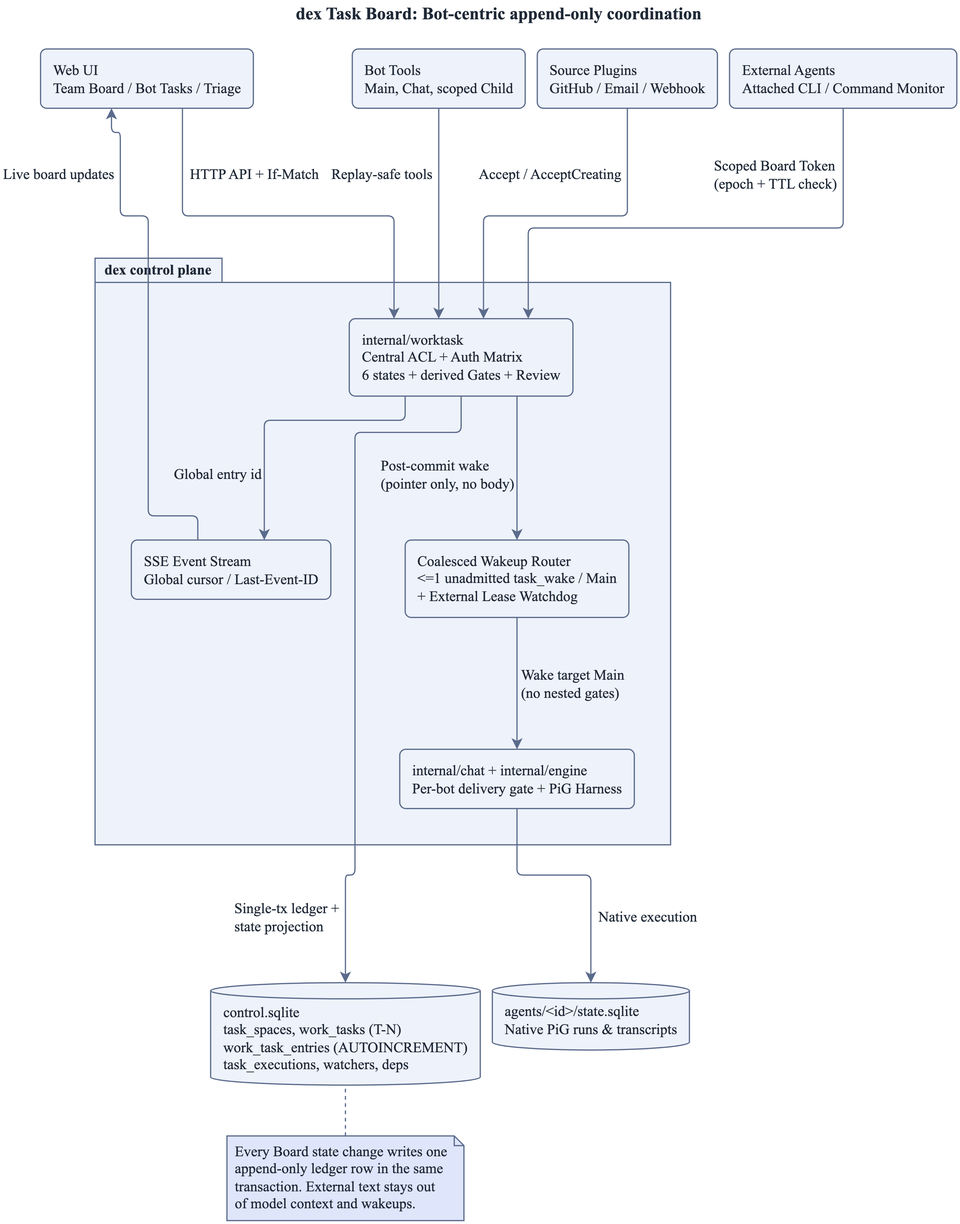
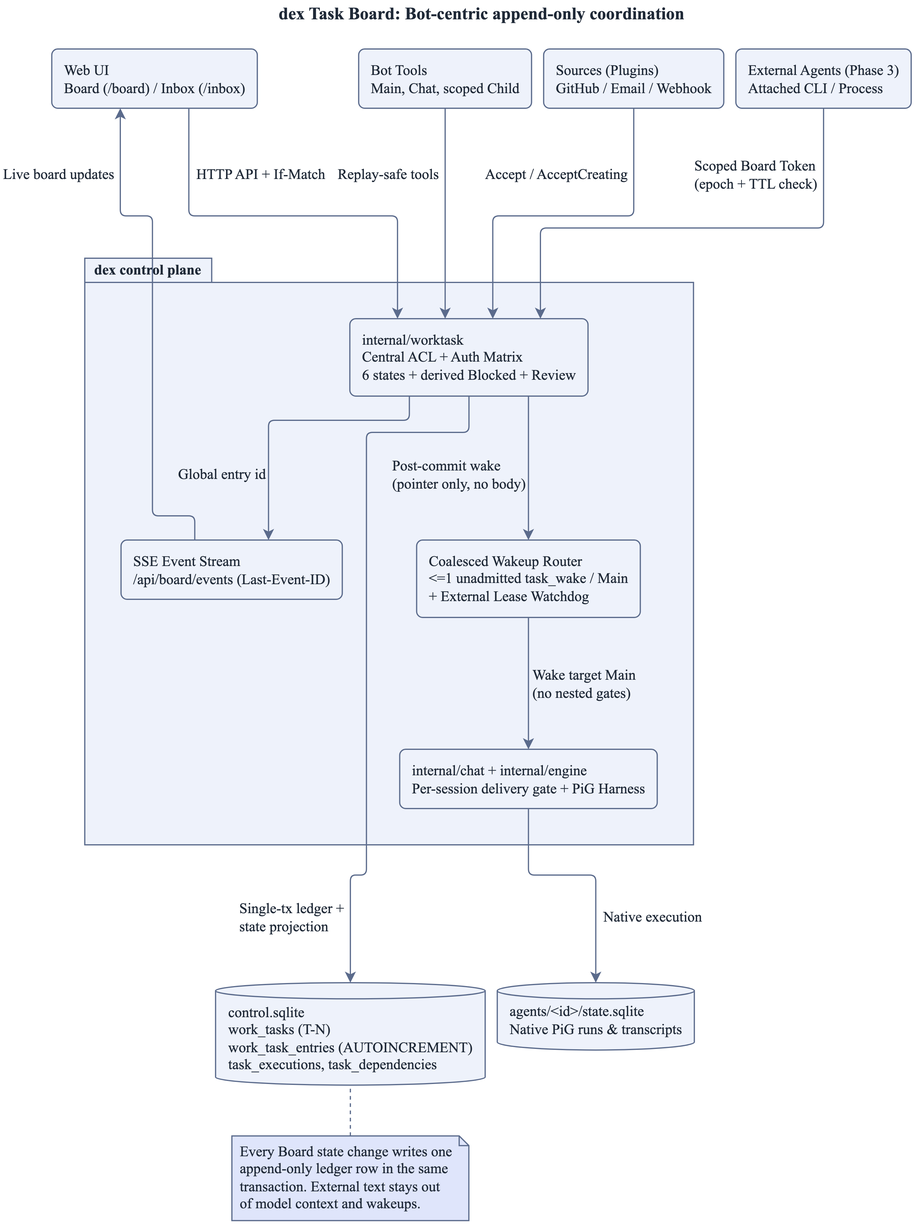
docs: Align Task Board spec with canonical glossary and simplified scope

diff --git a/docs/dev/task-board.md b/docs/dev/task-board.md
@@ -1,38 +1,44 @@
 # Task Board Architecture
 
-This document defines the target architecture for dex's Bot-centric, append-only Task Board (tracked in [#291](https://github.com/recally-io/dex/issues/291)). Current implemented Task Inbox behavior stays in [Tasks](tasks.md) until each phase ships.
+This document defines the target architecture for dex's Bot-centric, append-only Task Board (tracked in [#291](https://github.com/vaayne/dex/issues/291)). Current implemented Board and Task behavior stays in [Tasks](tasks.md) until each phase ships. All user-facing terms follow the [Glossary](glossary.md).
 
 ![Task Board architecture and boundaries](../assets/task-board.png)
 
 Source: [task-board.puml](../assets/src/task-board.puml).
 
-## Mental model and core invariants
+## Mental model and terminology boundary
 
-dex models a team for one owner:
+dex models a team for one Owner without adding new top-level user objects beyond `Bot`, `Session`, `Task`, and `Automation`, or new views beyond `Board` (`/board`) and `Inbox` (`/inbox`):
 
-- **dex** is the team.
-- **Each Bot** is a team member. Its **Main session** is its working desk and juggles multiple Tasks at once.
-- **The Task Board** is the team's shared durable working memory and progress ledger.
-- **Executions** are the concrete runs a Bot uses to do work on a Task: internal dex sessions or external coding agents (such as Claude Code, Codex, or OpenCode) on local or remote machines.
+- **Owner** is the single human operator.
+- **Bot** is a team member. Its **Main** session is its working desk and juggles multiple Tasks at once.
+- **Assignee** is the dex Bot currently responsible for a Task (`assignee_bot_id NOT NULL`). Reassigning a Task changes its Assignee without turning `Owner` into a Bot role.
+- **Board** (`/board`) is the global view of all Tasks across Bots. Each Task has a stable key (`T-42`), a status, an Assignee, linked Sessions, external links, and a **Timeline**.
+- **Inbox** (`/inbox`) remains the single Owner attention stream: active `ask_user` questions, unhandled failed or changed Automation results, Automations missing a model, held external events, and (in Phase 2) Tasks awaiting Owner review. There is no separate `Triage` view.
 
-Five invariants govern the design:
+Engineering terms in this document—such as **ledger**, **tombstone**, **gate**, **execution**, and **task wake**—describe internal storage and control-plane mechanics only. The Web UI surfaces them in plain canonical terms (`Timeline`, `Blocked`, `Sessions`, and `External runs`).
 
-1. **Bot accountability.** Every Task has one owning dex Bot (`assignee_bot_id NOT NULL`). External agents run as Executions under a dex Bot; they never own a Task independently.
+## Core invariants
+
+Four invariants govern the design:
+
+1. **Bot accountability.** Every Task has one responsible dex Bot (`assignee_bot_id NOT NULL`). External coding agents run underneath a dex Bot; they never own a Task independently.
 2. **Task ownership is not Session ownership.** Reassigning a Task from Bot A to Bot B does not transfer `conversations.parent_id` control over Bot A's existing child sessions. Bot B's Main creates its own child sessions.
-3. **Append-only ledger as source of truth.** `work_task_entries` uses `INTEGER PRIMARY KEY AUTOINCREMENT` and forbids physical deletion (`tombstone` only, no `ON DELETE CASCADE`). Every Board mutation writes one ledger entry in the same SQLite write transaction so `work_tasks` is a consistent projection of the ledger and SSE cursors never skip changes.
-4. **Storage and lock boundaries.** All Board state lives in `control.sqlite` (`STRICT` tables). Native execution state remains in `agents/<id>/state.sqlite`. No call path holds two bot delivery gates: cross-bot assignment, review, and gate unblock commit durable DB state first and invoke `wake()` after commit; cross-bot stops reuse `abort_pending`.
-5. **Lightweight grouping.** Board grouping uses `Space` (for example `general`, `dev/dex`, `ops`) to stay distinct from messaging Channels (Telegram, Feishu, WeChat). Spaces provide organization and filtering only; they do not store routing defaults (`default_bot_id`, `environment`, or `cwd`) that duplicate bot or plugin settings.
+3. **Append-only ledger as source of truth.** `work_task_entries` uses `INTEGER PRIMARY KEY AUTOINCREMENT` and forbids physical deletion (`tombstone` only, no `ON DELETE CASCADE`). Every Board state mutation writes one ledger row in the same SQLite write transaction so `work_tasks` stays a consistent projection of the ledger and SSE cursors never skip changes.
+4. **Storage and lock boundaries.** All Board state lives in `control.sqlite` (`STRICT` tables). Native execution state remains in `agents/<id>/state.sqlite`. No call path holds two session delivery gates: cross-bot assignment, review, and unblock commit durable DB state first and invoke `wake()` after commit; cross-bot stops reuse `abort_pending`.
 
 ## Domain model
 
-| Table / entity      | Key fields and semantics                                                                                                                                                                                                                                                                                                                     |
-| ------------------- | -------------------------------------------------------------------------------------------------------------------------------------------------------------------------------------------------------------------------------------------------------------------------------------------------------------------------------------------- |
-| `task_spaces`       | `id`, unique `slug` (default `general`), `name`, `description`, `archived_at`. Display and filter grouping only.                                                                                                                                                                                                                             |
-| `work_tasks`        | `id`, `number` (`AUTOINCREMENT` -> global stable key `T-42`), `space_id` (defaults to `general` for plugin `AcceptCreating` compatibility), `title`, `status`, `parent_task_id`, `authorized_by_root_id`, `assignee_bot_id` (`NOT NULL`), `creator_kind`/`id`, `reviewer_kind`/`id`, `review_seq`, `next_entry_seq`, `revision`, timestamps. |
-| `work_task_entries` | `id` (`AUTOINCREMENT` global SSE cursor), `task_id`, `seq` (`UNIQUE(task_id, seq)`), `kind`, optional `tag`, `actor_kind`, `actor_bot_id`, `actor_execution_id`, `trust`, `event_id`, `meta_json`, `content`, `created_at`.                                                                                                                  |
-| `task_executions`   | `id`, `task_id`, `bot_id`, `kind` (`dex_session` \| `external_agent`), `conversation_id`, `turn_request_id`, `harness`, `machine_id`, `host_meta_json`, `workspace_path`, `git_branch`, `external_session_id`, `state`, `lease_epoch`, `lease_expires_at`, `last_heartbeat_at`, `started_at`, `ended_at`.                                    |
-| `task_watchers`     | `(task_id, bot_id)`. Grants read-only access and badge visibility; watching never grants write permission.                                                                                                                                                                                                                                   |
-| `task_dependencies` | `(task_id, depends_on_task_id)` (Phase 2). Allowed only between sibling Tasks that share the same `parent_task_id`. Cycle check and insert run in the same write transaction.                                                                                                                                                                |
+| Table / entity      | Key fields and semantics                                                                                                                                                                                                                                                                                  |
+| ------------------- | --------------------------------------------------------------------------------------------------------------------------------------------------------------------------------------------------------------------------------------------------------------------------------------------------------- |
+| `work_tasks`        | `id`, `number` (`AUTOINCREMENT` -> global stable key `T-42`), `title`, `status`, `parent_task_id`, `authorized_by_root_id`, `assignee_bot_id` (`NOT NULL`, upgraded from `agent_id`), `creator_kind`/`id`, `reviewer_kind`/`id`, `review_seq`, `next_entry_seq`, `revision`, timestamps.                  |
+| `work_task_entries` | `id` (`AUTOINCREMENT` global SSE cursor), `task_id`, `seq` (`UNIQUE(task_id, seq)`), `kind`, optional `tag`, `actor_kind`, `actor_bot_id`, `actor_execution_id`, `trust`, `event_id`, `meta_json`, `content`, `created_at`.                                                                               |
+| `task_executions`   | `id`, `task_id`, `bot_id`, `kind` (`dex_session` \| `external_agent`), `conversation_id`, `turn_request_id`, `is_primary`, `harness`, `machine_id`, `host_meta_json`, `workspace_path`, `git_branch`, `external_session_id`, `state`, `lease_epoch`, `lease_expires_at`, `last_heartbeat_at`, timestamps. |
+| `task_dependencies` | `(task_id, depends_on_task_id)` (Phase 2). Allowed only between sibling Tasks that share the same `parent_task_id`. Cycle check and insert run in the same write transaction.                                                                                                                             |
+
+Upgrading from the current schema maps `work_tasks.agent_id` to `assignee_bot_id` and migrates existing `work_task_sessions` rows (including `agent_id`, `is_primary`, and `linked_at`) into `task_executions` (`kind = 'dex_session'`) without losing primary links or history.
+
+Board does not introduce `Spaces` or `Watchers` as first-class entities. Filtering uses Assignee Bot, Status, `In Review`, `Blocked`, and linked Source; access control uses Assignee, Reviewer, and bound Sessions/Executions.
 
 ### Entry kinds and projections
 
@@ -53,39 +59,39 @@ Generic `task_post` writes only `note` and `artifact`. Dedicated server mutation
 
 Central `canRead(bot, task)` and `canWrite(bot, task, action)` checks replace scattered `t.agent_id = caller` query filters:
 
-- `canRead` allows the assignee, reviewer, watchers, and child executions bound to that Task.
-- `revision` applies only to cross-request HTTP and CLI writes via `If-Match: <revision>`. Internal agent tools execute inside immediate SQLite writer transactions and do not expose `revision` in tool arguments.
+- `canRead` allows the Assignee, the Reviewer (Phase 2), and child Sessions or external runs bound to that Task.
+- `revision` applies only to cross-request HTTP and CLI writes via `If-Match: <revision>`. Internal Bot tools execute inside immediate SQLite writer transactions and do not expose `revision` in tool arguments.
 
-## Lifecycle, derived Gates, and review
+## Lifecycle, derived Blocked state, and review
 
 `work_tasks.status` stores six states: `backlog`, `ready`, `in_progress`, `in_review`, `done`, and `cancelled`.
 
-`waiting` is not stored. Blocked state (`blocked` plus active Gate details) is derived on read from three read-only Gate sources:
+`waiting` is not stored. `Blocked` state (plus concrete blocker details) is derived on read from three internal Gate sources:
 
 1. Unfinished sibling `task_dependencies` (Phase 2).
 2. Unresolved external `work_task_waits`.
-3. Open `questions` (`ask_user`, keeping its existing transactional selection and delivery path in `internal/chat/work_tasks.go`, while showing queue position in the UI when multiple Tasks ask Main at once).
+3. Open `questions` (`ask_user`, keeping its existing transactional selection and delivery path in `internal/chat/work_tasks.go`, while showing queue position in Task detail when multiple Tasks ask Main at once).
 
 Key transition rules:
 
 - **Default reviewer.** When a Bot creates or delegates a Task to a different Bot (`creator != assignee`), `reviewer` defaults to the creating Bot. Self-created sub-tasks and Owner-created Tasks default to `reviewer = none` unless the caller explicitly sets `review: owner`.
-- **Review version binding.** Moving a Task to `in_review` records `review_seq` (the entry sequence submitted for review). `task_review(approve)` succeeds only when it matches the current `review_seq`; new submissions invalidate stale approvals. `task_review(request_changes)` appends feedback, moves the Task back to `in_progress`, and wakes the assignee Bot.
-- **No implicit completion.** Finishing an Execution never automatically moves a Task to `in_review` or `done`; the assignee Bot's Main session explicitly submits or closes it.
-- **Upstream edge cases.** Cancelling an upstream Task does not clear downstream Gates; it wakes the downstream assignee for manual resolution. Reopening a completed upstream Task (`done -> in_progress`) does not roll back started downstream work; it appends a `status` notice and wakes the downstream assignee.
+- **Review version binding.** Moving a Task to `in_review` records `review_seq` (the entry sequence submitted for review). `task_review(approve)` succeeds only when it matches the current `review_seq`; new submissions invalidate stale approvals. `task_review(request_changes)` appends feedback, moves the Task back to `in_progress`, and wakes the Assignee Bot.
+- **No implicit completion.** Finishing a Session or external run never automatically moves a Task to `in_review` or `done`; the Assignee Bot's Main session explicitly submits or closes it.
+- **Upstream edge cases.** Cancelling an upstream Task does not clear downstream blockers; it wakes the downstream Assignee for manual resolution. Reopening a completed upstream Task (`done -> in_progress`) does not roll back started downstream work; it appends a `status` notice and wakes the downstream Assignee.
 
 ## Authorization matrix
 
 Server-side authorization replaces the single `fromUser` check with a `role x run origin x root authorization` matrix:
 
-| Action                                              | Allowed actor                                | Allowed run origin                                      | Additional constraint                                                |
-| --------------------------------------------------- | -------------------------------------------- | ------------------------------------------------------- | -------------------------------------------------------------------- |
-| `task_post` (`note` / `artifact`)                   | Assignee, reviewer, watcher, bound execution | `user`, `task_wake`, child `task_result`                | External Board Token is scoped to one Task and one Execution         |
-| `backlog`/`ready` <-> `in_progress`, `-> in_review` | Assignee Bot or Owner                        | `user`, `task_wake`                                     | `in_review` sets `review_seq`; executions cannot trigger it directly |
-| `task_review` (`approve` / `request_changes`)       | Reviewer or Owner                            | Bot reviewer: `task_wake` or `user`; Owner: `user` only | `approve` must match current `review_seq`                            |
-| `task_split` (create child Task)                    | Parent assignee or Owner                     | `user`, `task_wake`                                     | Root Task must be user-created (`authorized_by_root_id` required)    |
-| Top-level `task_new`                                | Any Bot Main or Owner                        | `user` only (plus plugin `AcceptCreating` rules)        | Prevents unprompted automation from creating top-level Tasks         |
-| `cancel`, `reopen`, change reviewer, move space     | Owner only                                   | `user` only                                             | Bots, wakeups, external agents, and external events are rejected     |
-| External plugin events & external tokens            | Cannot change Task status or lifecycle       | —                                                       | Append `external` / `note` / `artifact` or resolve waits only        |
+| Action                                              | Allowed actor                          | Allowed run origin                                      | Additional constraint                                                |
+| --------------------------------------------------- | -------------------------------------- | ------------------------------------------------------- | -------------------------------------------------------------------- |
+| `task_post` (`note` / `artifact`)                   | Assignee, Reviewer, bound Session/run  | `user`, `task_wake`, child `task_result`                | External Board Token is scoped to one Task and one Execution         |
+| `backlog`/`ready` <-> `in_progress`, `-> in_review` | Assignee Bot or Owner                  | `user`, `task_wake`                                     | `in_review` sets `review_seq`; executions cannot trigger it directly |
+| `task_review` (`approve` / `request_changes`)       | Reviewer or Owner                      | Bot Reviewer: `task_wake` or `user`; Owner: `user` only | `approve` must match current `review_seq`                            |
+| `task_split` (create child Task)                    | Parent Assignee or Owner               | `user`, `task_wake`                                     | Root Task must be user-created (`authorized_by_root_id` required)    |
+| Top-level `task_new`                                | Any Bot Main or Owner                  | `user` only (plus Source `AcceptCreating` rules)        | Prevents unprompted automation from creating top-level Tasks         |
+| `cancel`, `reopen`, change reviewer                 | Owner only                             | `user` only                                             | Bots, wakeups, external agents, and external events are rejected     |
+| External Source events & external tokens            | Cannot change Task status or lifecycle | —                                                       | Append `external` / `note` / `artifact` or resolve waits only        |
 
 ## Trust boundary and context reads
 
@@ -93,7 +99,7 @@ Entries carry a three-level `trust` classification:
 
 - `owner`: written by the human Owner.
 - `agent`: written by a dex Bot or an external coding agent (`actor_kind = external_agent` distinguishes external agents).
-- `external`: ingested from external plugins (GitHub, Email, Webhook).
+- `external`: ingested from external Sources (GitHub, Email, Webhook).
 
 Protection rules:
 
@@ -104,49 +110,51 @@ Protection rules:
 
 ## Coalesced Main wakeups
 
-Main is a front desk (`docs/dev/sessions.md`): queuing one submission per Task event delays user messages behind a burst of task turns.
+Main is a front desk ([Sessions](sessions.md)): queuing one submission per Task event delays user messages behind a burst of task turns.
 
 - **One unadmitted wake per Main.** A partial unique index on `submissions` (`WHERE kind = 'task_wake' AND admitted_at IS NULL`) ensures each Bot's Main has at most one pending wake before native admission. Incoming wake events upsert that row with the new high-water cursor and a deduplicated list of `(taskKey, reason)` items.
 - **Pointer-only payload.** A `task_wake` payload contains only cursor pointers and event categories, never entry body text. Main reads details on demand via `task_my_workload` and `task_read`.
-- **Decision allowlist.** Only decision-requiring events trigger `task_wake`: `assigned`, `review_requested`, `changes_requested`, `gate_unblocked` (including resolved alert waits), `execution_failed`, `execution_stale`, and `question_answered`. Routine `note`, `artifact`, and heartbeat writes update UI badges and SSE only.
-- **No internal double-wakeup.** Internal child sessions already deliver a `task_result` to their parent on settlement. Internal `task_executions` project their state from existing conversation and submission records (`conversation_id` + `turn_request_id`) and do not emit a second auto-echo wakeup.
+- **Decision allowlist.** Only decision-requiring events trigger `task_wake`: `assigned`, `review_requested`, `changes_requested`, `gate_unblocked` (including resolved alert waits), `execution_failed`, `execution_stale`, and `question_answered`. Ordinary `note`, `artifact`, and heartbeat writes update UI badges and SSE only.
+- **No internal double-wakeup.** Internal child sessions already deliver a `task_result` to their parent on settlement. Internal `dex_session` executions project their state from existing conversation and submission records (`conversation_id` + `turn_request_id`) and do not emit a second auto-echo wakeup.
 
-## External agents and machines (Phase 3)
+## External agents and Runners (Phase 3)
 
-External coding agents (Claude Code, Codex, OpenCode, or custom scripts) integrate under an owning dex Bot through two tracks:
+External coding agents (Claude Code, Codex, OpenCode, or custom scripts) run under an Assignee Bot through two tracks:
 
 1. **Attached mode (CLI / MCP, first priority).**
-   - Each external Execution receives a scoped Board Token bound to `(task_id, execution_id, lease_epoch)`, stored only as a SHA-256 digest and injected via environment variable or `vault:NAME` (never passed in tool arguments that enter transcripts).
+   - Each external run receives a scoped Board Token bound to `(task_id, execution_id, lease_epoch)`, stored only as a SHA-256 digest and injected via environment variable or `vault:NAME` (never passed in tool arguments that enter transcripts).
    - The token allows reading non-`external` entries of that Task, posting `note`/`artifact`, sending heartbeats, and marking its own execution `completed` or `failed`. It cannot read other Tasks or change Task status.
    - Every write validates current `lease_epoch`, execution state, and server time in the same SQLite write condition, returning `409 claim_lost` immediately when expired or superseded.
    - **Startup grace and recovery.** On dex startup after downtime, active external leases extend to `max(lease_expires_at, start + TTL)` before the watchdog runs to prevent false stale storms. Transiently disconnected workers recover via `dex board attach --resume <execution_id>`, which bumps `lease_epoch` and returns `stale` to `running`.
    - **Workspace isolation.** Lease epochs block stale Board writes but cannot stop a detached OS process from editing a shared checkout. Parallel writers must use separate worktrees or directories. UI labels distinguish registered Runner identities from self-reported `hostname`/`cwd`.
-2. **Managed Push via Command Monitors.**
-   - Rather than adding harness-specific verbs to `dex-agent` runner RPC, Managed Push reuses `monitor_set_command` (`claude -p ... --resume <id>` or equivalent) with a durable `dispatch_id` and strict `(machine_enrollment, harness, workspace, external_session_id)` binding checks before resuming.
-   - Before enabling Managed Push, verify that long-running background commands on a remote Runner do not hold the Runner's single-operation socket and block concurrent tool calls from other bots on the same machine.
+2. **Managed Push via Processes.**
+   - Rather than adding harness-specific verbs to `dex-agent` Runner RPC, Managed Push reuses session **Processes** (`process_start` in `internal/background`, running `claude -p ... --resume <id>` or equivalent) with a durable `dispatch_id` and strict `(machine_enrollment, harness, workspace, external_session_id)` binding checks before resuming.
+   - Before enabling Managed Push, verify that long-running background Processes on a remote Runner do not hold the Runner's single-operation socket and block concurrent tool calls from other Bots on the same machine.
 
 ## Web UI information architecture
 
-The Web UI follows `web/AGENTS.md` (stock shadcn components and `web/src/styles.css` tokens) and replaces 3-second polling with global-cursor SSE (`GET /api/board/events`, `Last-Event-ID`):
+The Web UI follows [web/AGENTS.md](../../web/AGENTS.md) (stock shadcn components and `web/src/styles.css` tokens), keeps the existing navigation (`Bots`, `Board`, `Inbox`, and `Settings`), and replaces polling with global-cursor SSE (`GET /api/board/events`, `Last-Event-ID`):
 
-- **Team Board (`/tasks`)**: Space filter pills (`All`, `#general`, custom Spaces), Bot filter, `In Review` and `Blocked` filters, and a **Kanban (`Backlog | Ready | In Progress | In Review | Done`) / List** view toggle. Legacy `/inbox` and `/a/$agentId/inbox/$taskId` links redirect cleanly.
-- **Per-Bot `Tasks` tab**: Extends the bot workspace to five tabs (`Chat | Tasks | Routines | Extensions | Settings`; update `web/AGENTS.md` in the same commit) using the same Board query filtered by `assignee` and `watcher`.
-- **Separated `Triage` view**: Houses unmatched external `Held Events` (attach, dismiss, or create Task) and `Routine Results` outside the main Task Board.
-- **Task detail view/drawer (`/tasks/$taskKey`)**: Stable key (`T-42`), `In Review` action bar (`Approve` / `Request Changes`), filterable `#01..#N` append-only stream, Executions & Machines panel, Gates and External Links (`TaskLinks` + `GitHubPullForm`), and unified Append / Notify Main / Dispatch composer.
+- **Board (`/board`)**: Bot filter (`/board?bot=<id>`), `In Review` and `Blocked` filters, Source filter, and a **Kanban (`Backlog | Ready | In Progress | In Review | Done`) / List** view toggle. Legacy `/work` redirects to `/board`.
+- **Inbox (`/inbox`)**: Continues to house all Owner attention items—active `ask_user` questions, unhandled failed or changed Automation results, Automations missing a model, held external events, and (Phase 2) Tasks awaiting Owner review.
+- **Bot workspace**: Keeps `Sessions | Automations | Settings` (`General`, `Skills`, `Integrations`, `Secrets`) without adding a separate Bot Tasks tab; Bot-scoped Task views open `/board?bot=<id>`.
+- **Task detail (`/board/$taskKey`)**: Stable key (`T-42`), `In Review` action bar (`Approve` / `Request Changes`), filterable `#01..#N` Timeline, linked `Sessions` (plus external runs and Runner info in Phase 3), `Blocked` reasons and external links (`TaskLinks` + `GitHubPullForm`), and a unified note / Send to Main composer. Legacy `/a/$agentId/inbox/$taskId` links redirect cleanly.
+
+New Board endpoints use `/api/board/*` (or `/api/tasks/*`) rather than adding new routes under `/api/work` or `/api/inbox/tasks`.
 
 ## Phased rollout
 
-| Phase       | Scope                                                                                                                                                                                                                                                                                                                                                                                                                                                                                 |
-| ----------- | ------------------------------------------------------------------------------------------------------------------------------------------------------------------------------------------------------------------------------------------------------------------------------------------------------------------------------------------------------------------------------------------------------------------------------------------------------------------------------------- |
-| **Phase 1** | Central `canRead`/`canWrite`; `task_spaces` (`general` default); `AUTOINCREMENT` append-only ledger (`seq`, 8 kinds + `tag`, 3-tier `trust`, `tombstone`); global key `T-42`; 6 stored statuses + derived `blocked`; `in_review` + `review_seq`; internal `task_executions`; B1 authorization matrix; B3 coalesced `task_wake`; side-effect-free `task_read(afterSeq)`; OpenAPI + global SSE; Kanban/List Team Board UI, Bot `Tasks` tab, `Triage` split, and legacy route redirects. |
-| **Phase 2** | `parent_task_id` decomposition (`task_split`); cross-bot `task_assign` and `task_review` (no nested delivery gates); sibling `depends_on` (same-tx cycle check, `cancelled`/`reopen` semantics); scoped child session `task_read`/`task_post`; `task_my_workload`.                                                                                                                                                                                                                    |
-| **Phase 3** | Attached CLI/MCP + scoped SHA-256 Board Tokens + Lease Watchdog (startup grace, write-time epoch check, `--resume`); Environments external executions visibility; Managed Push via Command Monitors after runner socket concurrency verification.                                                                                                                                                                                                                                     |
+| Phase       | Scope                                                                                                                                                                                                                                                                                                                                                                                                                                                  |
+| ----------- | ------------------------------------------------------------------------------------------------------------------------------------------------------------------------------------------------------------------------------------------------------------------------------------------------------------------------------------------------------------------------------------------------------------------------------------------------------ |
+| **Phase 1** | Central `canRead`/`canWrite`; `AUTOINCREMENT` append-only ledger (`seq`, 8 kinds + `tag`, 3-tier `trust`, `tombstone`); global key `T-42`; 6 stored statuses + derived `Blocked`; `in_review` + `review_seq`; `task_executions` upgraded from `work_task_sessions`; B1 authorization matrix; B3 coalesced `task_wake`; side-effect-free `task_read(afterSeq)`; OpenAPI + global SSE (`/api/board/events`); Kanban/List `/board` and `/board/$taskKey`. |
+| **Phase 2** | `parent_task_id` decomposition (`task_split`); cross-bot `task_assign` and `task_review` (no nested delivery gates; Owner reviews surface in `/inbox`); sibling `depends_on` (same-tx cycle check, `cancelled`/`reopen` semantics); scoped child session `task_read`/`task_post`; `task_my_workload`.                                                                                                                                                  |
+| **Phase 3** | Attached CLI/MCP + scoped SHA-256 Board Tokens + Lease Watchdog (startup grace, write-time epoch check, `--resume`); Runners external run visibility; Managed Push via Processes (`process_start`) after Runner socket concurrency verification.                                                                                                                                                                                                       |
 
 ## Verification criteria
 
 Before closing each rollout phase, verify with real SQLite and integration tests (no mocks):
 
-- Upgrading an existing `control.sqlite` preserves historical tasks, entries, primary sessions, external links, waits, and open questions.
+- Upgrading an existing `control.sqlite` preserves historical tasks, entries, `work_task_sessions` links and primary flags, external links, waits, and open questions.
 - Replaying webhook deliveries, native receipts, and tool keys produces no duplicate entries or wakeups.
 - Crash/restart recovery across `commit -> wake` and child settlement delivers at most one pending review wake; stale `review_seq` approvals and expired/superseded tokens fail with conflict errors.
 - Concurrent cross-bot delegations (`A -> B` and `B -> A`) plus `Stop` never deadlock or hold two delivery gates.
